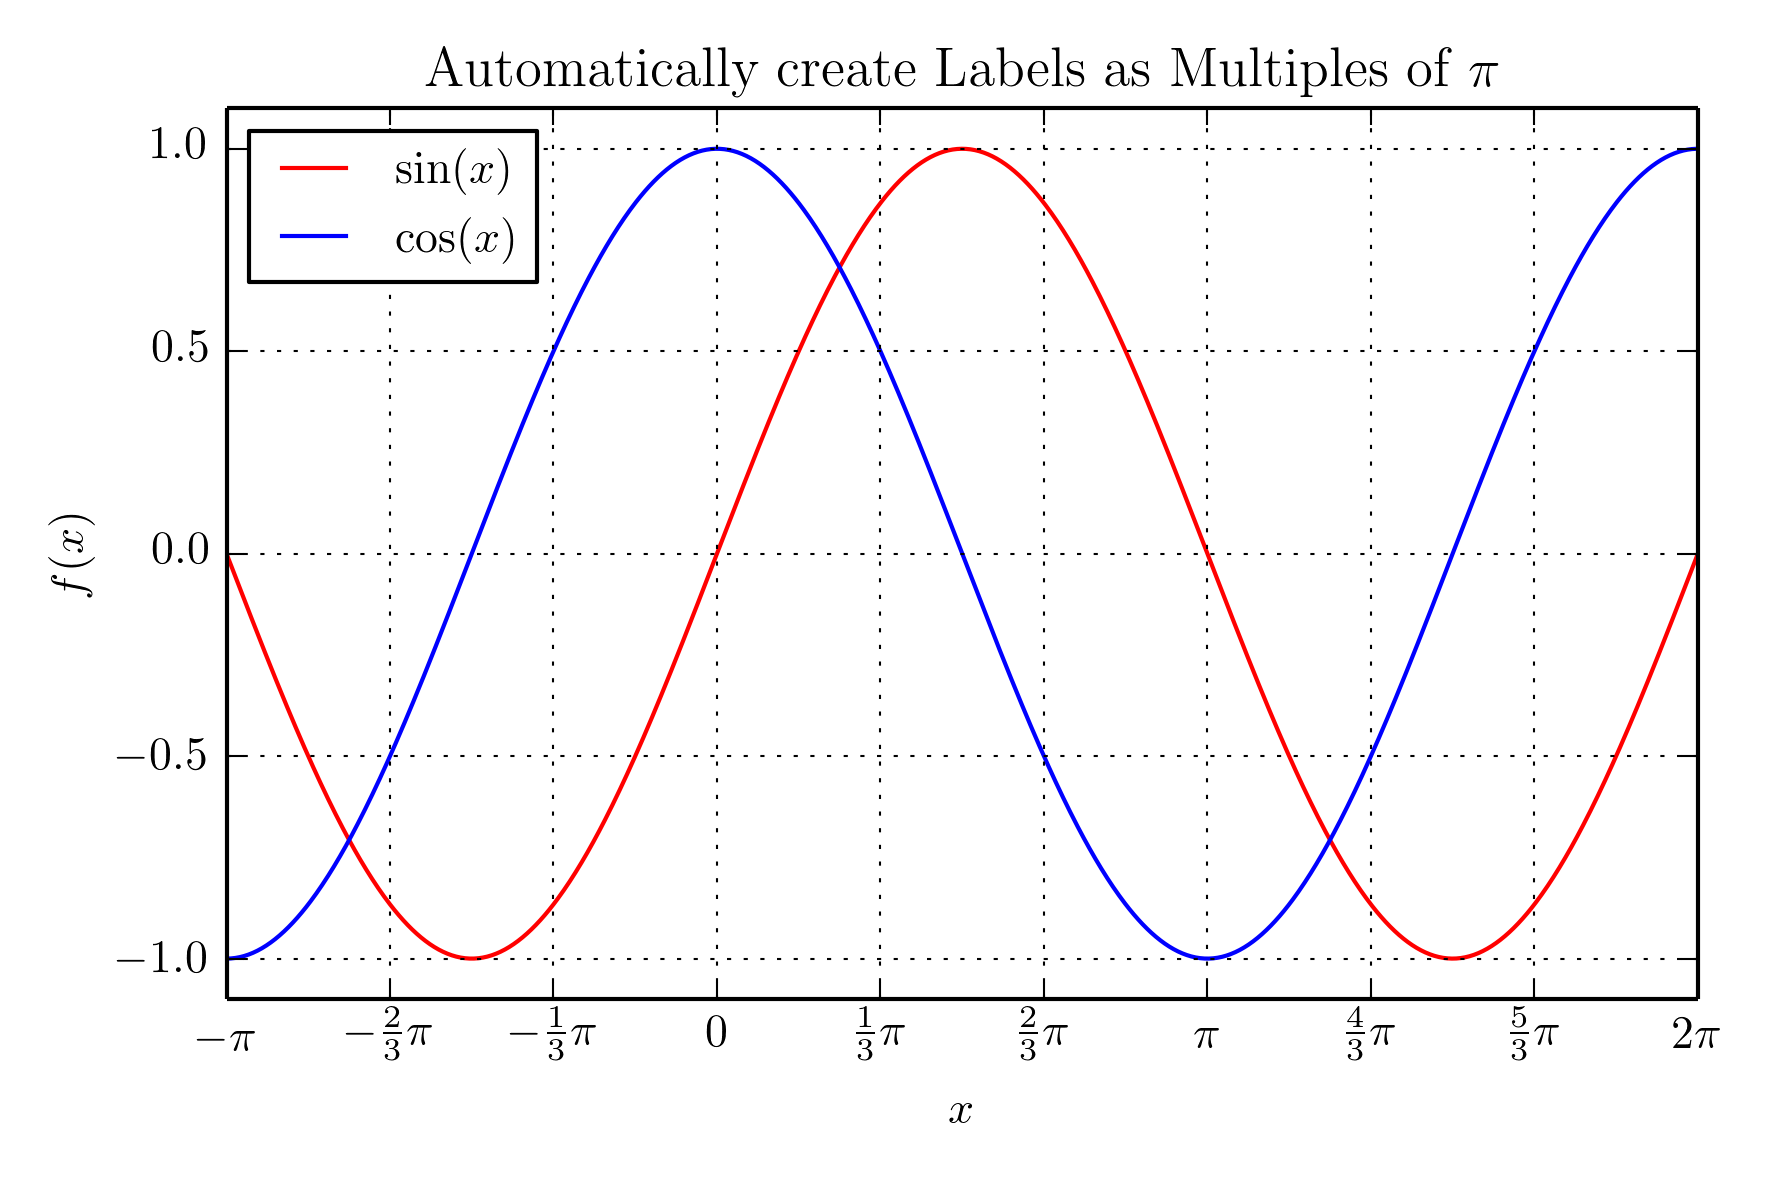
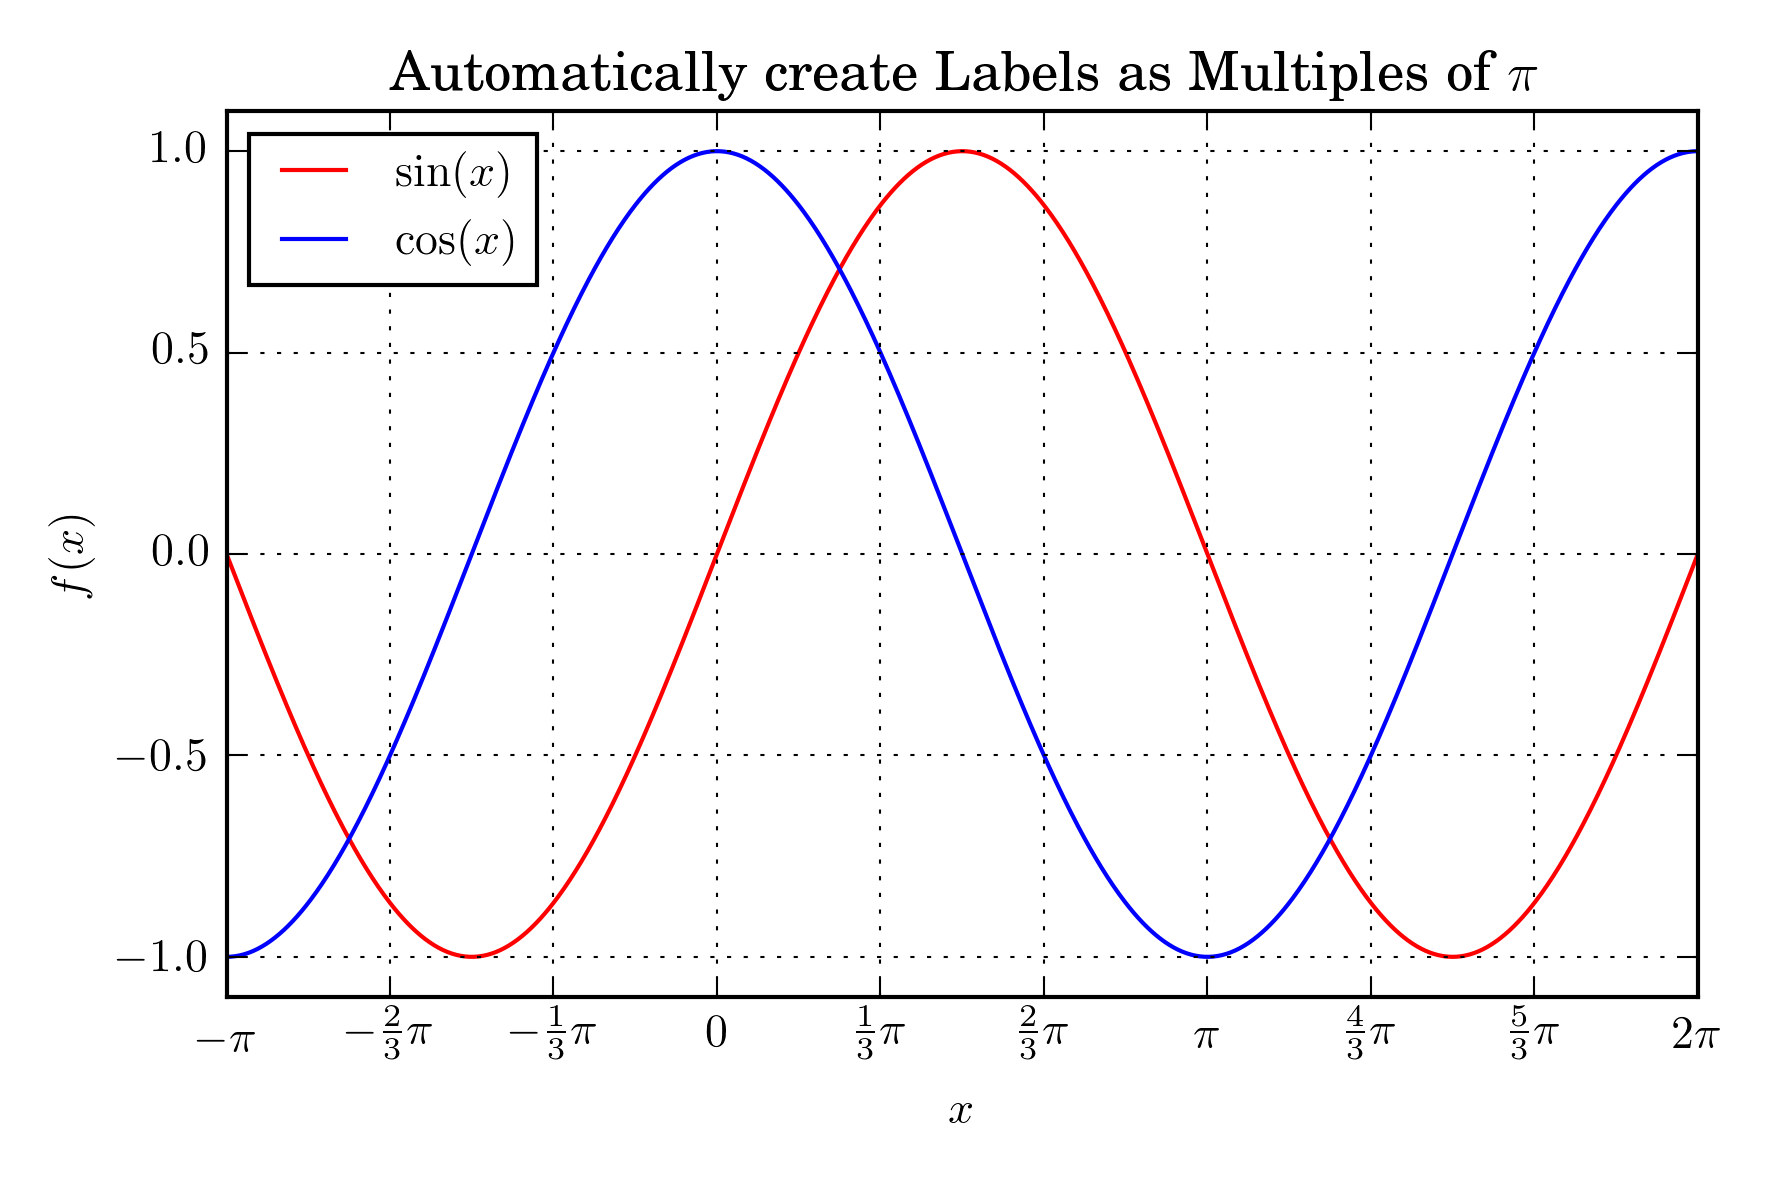
if tex is used, the pi-labels are now aligned

diff --git a/source/create_pi_labels.py b/source/create_pi_labels.py
@@ -1,49 +1,52 @@
-# -*- coding: utf-8 -*-
 import matplotlib.pyplot as plt
 import numpy as np
 from fractions import Fraction
 
 
-
 def create_pi_labels(a=0, b=2, step=0.5, ax=None, direction='x'):
     """
     A function that gives back ticks an labels in radians
-    
+
     Keyword arguments:
     a -- lower limit is a*pi (default 0.0)
     b -- upper limit is b*pi (default 2.0)
     step -- step is step*pi  (default 0.5)
     ax -- if ax is not None then ticks and labels are set for this axes (default None)
     direction -- 'x' or 'y' or 'z' (default 'x') which axis you want to label
-    
-    return value is ticks, labels 
+
+    return value is ticks, labels
     """
-    
+
     max_denominator = int(1/step)
     values = np.arange(a, b+0.1*step, step)
     fracs = [Fraction(x).limit_denominator(max_denominator) for x in values]
     ticks = values*np.pi
 
+    if plt.rcParams["text.usetex"] is True:
+        vspace = r"\vphantom{\frac{1}{2}}"
+    else:
+        vspace = ""
+
     labels = []
 
     for frac in fracs:
         if frac.numerator==0:
-            labels.append(r"$0$")
+            labels.append(r"$0" + vspace + "$")
         elif frac.numerator<0:
             if frac.denominator==1 and abs(frac.numerator)==1:
-                labels.append(r"$-\pi$")
+                labels.append(r"$-\pi" + vspace + "$")
             elif frac.denominator==1:
-                labels.append(r"$-{}\pi$".format(abs(frac.numerator)))
+                labels.append(r"$-{}\pi".format(abs(frac.numerator)) +vspace + "$")
             else:
                 labels.append(r"$-\frac{{{}}}{{{}}} \pi$".format(abs(frac.numerator), frac.denominator))
         else:
             if frac.denominator==1 and frac.numerator==1:
-                labels.append(r"$\pi$")
+                labels.append(r"$\pi" + vspace + "$")
             elif frac.denominator==1:
-                labels.append(r"${}\pi$".format(frac.numerator))
+                labels.append(r"${}\pi".format(frac.numerator) + vspace + "$")
             else:
                 labels.append(r"$\frac{{{}}}{{{}}} \pi$".format(frac.numerator, frac.denominator))
-                
+
     if ax is not None:
         if direction == 'x':
             ax.set_xticks(ticks)
@@ -59,25 +62,27 @@ def create_pi_labels(a=0, b=2, step=0.5, ax=None, direction='x'):
 
     return ticks, labels
 
-x = np.linspace(-np.pi, 2*np.pi, 1000)
+if __name__ == '__main__':
+    x = np.linspace(-np.pi, 2*np.pi, 1000)
 
-fig = plt.figure()
-ax = fig.add_subplot(1,1,1)
-ax.set_title("Automatically create Labels as Multiples of $\pi$")
+    fig = plt.figure()
+    ax = fig.add_subplot(1,1,1)
+    ax.set_title("Automatically create Labels as Multiples of $\pi$")
 
-ax.plot(x, np.sin(x), 'r-', label=r"$\sin(x)$")
-ax.plot(x, np.cos(x), 'b-', label=r"$\cos(x)$")
+    ax.plot(x, np.sin(x), 'r-', label=r"$\sin(x)$")
+    ax.plot(x, np.cos(x), 'b-', label=r"$\cos(x)$")
 
-ax.grid()
-ax.set_xlim(-np.pi, 2*np.pi)
-ax.set_ylim(-1.1, 1.1)
+    ax.grid()
+    ax.set_xlim(-np.pi, 2*np.pi)
+    ax.set_ylim(-1.1, 1.1)
 
-ax.set_xlabel(r"$x$")
-ax.set_ylabel(r"$f(x)$")
+    ax.set_xlabel(r"$x$")
+    ax.set_ylabel(r"$f(x)$")
 
-create_pi_labels(-1, 2, 1/3, ax, 'x')
+    create_pi_labels(-1, 2, 1/3, ax, 'x')
 
-ax.legend(loc="best")
+    ax.legend(loc="best")
+    # ax.xaxis.labelpad = 50
 
-fig.tight_layout()
-fig.savefig("../images/create_pi_labels.png", dpi=300)
+    fig.tight_layout()
+    fig.savefig("../images/create_pi_labels.png", dpi=300)
